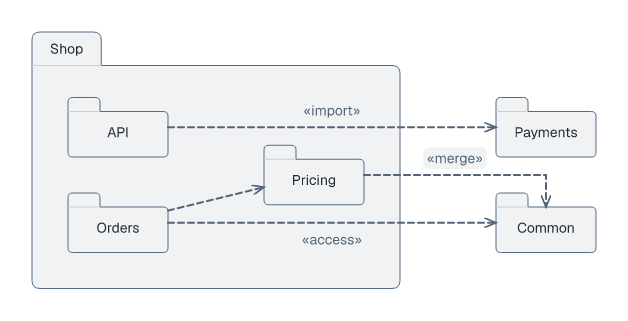
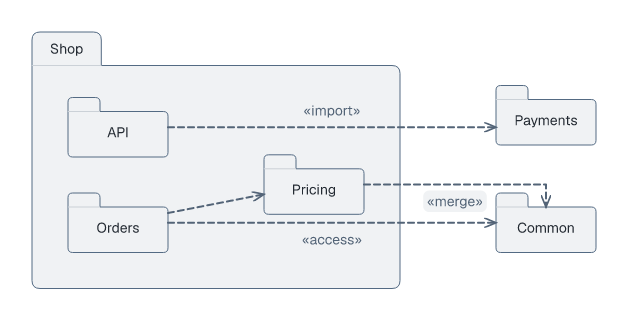
Separate package merge from unrelated upper node

Changed region(s): [[0.2723, 0.2492, 0.9682, 0.6854], [0.9379, 0.3115, 0.9682, 0.3427]]

diff --git a/src/geometry/containers.rs b/src/geometry/containers.rs
@@ -142,6 +142,40 @@ fn relation_alignments(
             let owner_a = local.iter().find(|node| node.id == a)?;
             let owner_b = local.iter().find(|node| node.id == b)?;
             let center = |node: &BoxNode| node.y + node.height / 2.0;
+            // An upper external package should not crowd a separate relation
+            // from a lower sibling into another external package. A small
+            // upward preference leaves the incoming horizontal stroke intact.
+            let upper_clearance = if diagram.settings.diagram_type
+                == crate::syntax::DiagramType::Package
+                && parent.is_none()
+                && diagram.layout.is_empty()
+                && diagram
+                    .nodes
+                    .iter()
+                    .any(|node| node.id == to.id && node.parent.is_none())
+                && let Some(source_parent) = diagram
+                    .nodes
+                    .iter()
+                    .find(|node| node.id == from.id)
+                    .and_then(|node| node.parent.as_deref())
+                && diagram.relations.iter().any(|other| {
+                    other.from != relation.from
+                        && other.to != relation.to
+                        && diagram.nodes.iter().any(|node| {
+                            node.id == other.from && node.parent.as_deref() == Some(source_parent)
+                        })
+                        && diagram
+                            .nodes
+                            .iter()
+                            .any(|node| node.id == other.to && node.parent.is_none())
+                        && boxes
+                            .iter()
+                            .any(|node| node.id == other.from && center(node) > center(from) + 16.0)
+                }) {
+                12.0
+            } else {
+                0.0
+            };
             Some(ScopedAlignment {
                 first: a,
                 second: b,
@@ -150,7 +184,8 @@ fn relation_alignments(
                     - center(owner_a)
                     - owner_b.height / 2.0
                     - center(to)
-                    + center(owner_b),
+                    + center(owner_b)
+                    - upper_clearance,
                 line: 0,
             })
         })
@@ -159,7 +194,9 @@ fn relation_alignments(
 
 // In a package frame, a right-hand child need not sit directly in the row of
 // its incoming sibling when that blocks another sibling's outward relation.
-// Use the space between the two left-hand rows, never an authored position.
+// Favor the related lower row within that space, so its outgoing route stays
+// closer to its target than to unrelated nodes in the upper row. Never move
+// an authored position.
 fn open_package_lanes(diagram: &Diagram, local: &mut [BoxNode], parent: Option<&str>) {
     if diagram.settings.diagram_type != crate::syntax::DiagramType::Package
         || parent.is_none()
@@ -203,8 +240,8 @@ fn open_package_lanes(diagram: &Diagram, local: &mut [BoxNode], parent: Option<&
                 joined && outward
             });
         if let Some((upper, lower)) = candidate {
-            let proposed =
-                (center(&local[upper]) + center(&local[lower])) / 2.0 - local[right].height / 2.0;
+            let proposed = center(&local[upper]) * 0.4 + center(&local[lower]) * 0.6
+                - local[right].height / 2.0;
             let clear = local.iter().enumerate().all(|(i, node)| {
                 i == right
                     || node.x + node.width + 8.0 <= local[right].x

diff --git a/tests/package_diagram.rs b/tests/package_diagram.rs
@@ -80,8 +80,13 @@ fn architecture_dependencies_route_without_changing_original_node_layout() {
         assert!((import[1].x - payments.x).abs() < 1e-6);
         assert!((import[0].y - import[1].y).abs() < 1e-6);
         assert!(
-            (api.y + api.height / 2.0 - payments.y - payments.height / 2.0).abs() < 1e-6,
-            "{theme}: automatic placement should lift Payments beside API"
+            api.y + api.height / 2.0 - payments.y - payments.height / 2.0 >= 10.0,
+            "{theme}: automatic placement should lift Payments clear of merge"
+        );
+        assert!(
+            import[1].y >= payments.y + 14.0 + 6.0
+                && import[1].y <= payments.y + payments.height - 6.0,
+            "{theme}: the straight import must still dock on Payments' visible body"
         );
         assert_eq!(access.len(), 2, "{theme}: access must be straight");
         assert!((access[0].x - orders.x - orders.width).abs() < 1e-6);
@@ -89,6 +94,12 @@ fn architecture_dependencies_route_without_changing_original_node_layout() {
         assert!((access[0].y - access[1].y).abs() < 1e-6);
         assert_eq!(merge.len(), 3, "{theme}: merge needs only one bend");
         assert!(merge[1].y > payments.y + payments.height + 4.0);
+        let distance_to_payments = merge[0].y - payments.y - payments.height;
+        let distance_to_common = common.y + 14.0 - merge[0].y;
+        assert!(
+            distance_to_payments > 1.7 * distance_to_common,
+            "{theme}: merge should visibly belong to Common, not Payments"
+        );
         assert!((merge[0].x - node("Shop.Pricing").x - node("Shop.Pricing").width).abs() < 1e-6);
         assert!((merge[2].x - common.x - common.width / 2.0).abs() < 1e-6);
         assert!(
@@ -118,6 +129,14 @@ fn architecture_dependencies_route_without_changing_original_node_layout() {
             );
         }
         let label = routes[3].label.as_ref().unwrap();
+        assert!(
+            label.y > merge[0].y,
+            "{theme}: merge label belongs below the route, near Common"
+        );
+        assert!(
+            label.y > payments.y + payments.height + 20.0,
+            "{theme}: merge label must clear the unrelated Payments box"
+        );
         assert!(
             label.x + label.width + 4.0 < payments.x,
             "{theme}: the rendered merge label pill must not touch Payments"

diff --git a/src/route/route_labels.rs b/src/route/route_labels.rs
@@ -20,15 +20,21 @@ pub(super) fn select(
     package_pill: bool,
 ) -> Result<(Option<Label>, Vec<Label>, Option<Gap>), String> {
     let markers = side_rules::label_clearance(relation, width);
-    let options = match relation.display_label() {
+    let mut options = match relation.display_label() {
         None => vec![(None, None)],
         Some(text) => match placement {
-            LabelPlacement::Near => {
-                labels::near_options(points, &text, font_size, markers, boxes, previous)?
-                    .into_iter()
-                    .map(|label| (Some(label), None))
-                    .collect()
-            }
+            LabelPlacement::Near => labels::near_options(
+                points,
+                &text,
+                font_size,
+                markers,
+                boxes,
+                previous,
+                package_pill,
+            )?
+            .into_iter()
+            .map(|label| (Some(label), None))
+            .collect(),
             LabelPlacement::Along => {
                 labels::along_options(points, &text, font_size, markers, boxes, previous)?
                     .into_iter()
@@ -43,6 +49,20 @@ pub(super) fn select(
             }
         },
     };
+    // When a package relation turns down into its target, place its title on
+    // that side of the horizontal stroke before trying the unrelated upper row.
+    if package_pill && placement == LabelPlacement::Near && points.len() >= 3 {
+        let last = points[points.len() - 1];
+        let before = points[points.len() - 2];
+        if (last.x - before.x).abs() < 1e-6 && last.y > before.y + 1e-6 {
+            let horizontal_y = points[0].y;
+            options.sort_by_key(|(label, _)| {
+                label
+                    .as_ref()
+                    .is_none_or(|label| label.y + label.height / 2.0 < horizontal_y)
+            });
+        }
+    }
     let mut reason = None;
     for (label, gap) in options {
         // The modern package label's visible pill extends beyond its text box.

diff --git a/src/route/labels.rs b/src/route/labels.rs
@@ -11,6 +11,7 @@ pub(super) fn near_options(
     own_markers: [f64; 2],
     boxes: &[BoxNode],
     previous: &[Route],
+    package_pill: bool,
 ) -> Result<Vec<Label>, String> {
     let width = measure(text, size)?;
     let height = size * 1.25;
@@ -21,7 +22,12 @@ pub(super) fn near_options(
         if dx.hypot(dy) < 1e-6 {
             continue;
         }
-        for progress in [0.5, 0.3, 0.7, 0.15, 0.85] {
+        let positions: &[f64] = if package_pill {
+            &[0.5, 0.45, 0.4, 0.3, 0.7, 0.15, 0.85]
+        } else {
+            &[0.5, 0.3, 0.7, 0.15, 0.85]
+        };
+        for &progress in positions {
             let mid = Point {
                 x: pair[0].x + dx * progress,
                 y: pair[0].y + dy * progress,
